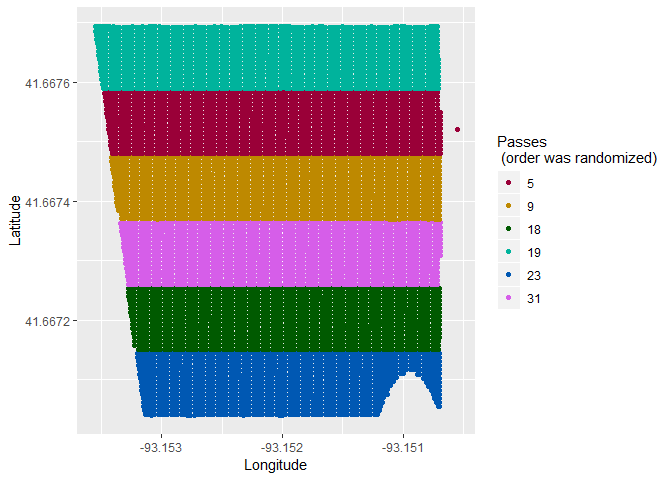
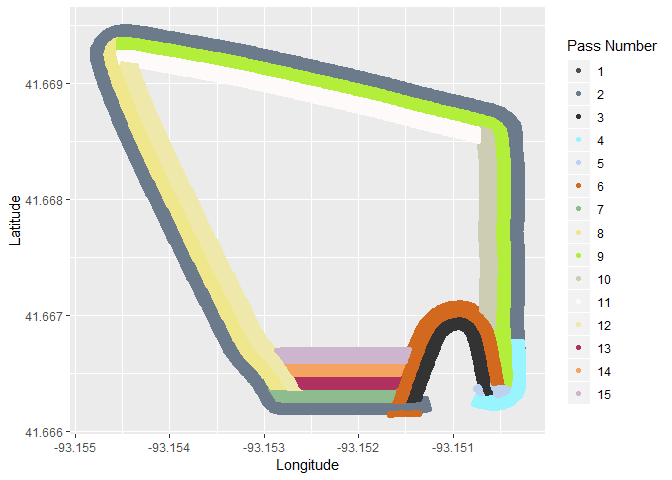
Simplifying code

diff --git a/Process_script.md b/Process_script.md
@@ -1,20 +1,16 @@
 Ag Machine Pass Numbering
 ================
 Eric Coronel
-August 6, 2018
+August 9, 2018
 
-# Purpose of this script
+Purpose of this script
+======================
 
-Data collected by agricultural equipment is not user friendly,
-especially when within-field data manipulation is needed. It is simple
-to calculate average yield or fuel usage per field. The challenge is
-obtaining attributes from individual field passes inside the field when
-there are no identifiers to perform subsettings or groupings.  
-The code included here uses time difference in seconds between
-observations to separate machinery passes. The threshold for separating
-passes can be modified.
+Data collected by agricultural equipment is not user friendly, particularly when within-field data manipulation is needed. It is simple to calculate average yield or fuel usage per field. The challenge is obtaining attributes from individual field passes when there are no identifiers to perform subsettings or groupings.
+The code included here uses time difference in seconds between observations to separate machinery passes. The threshold for separating passes can be modified.
 
-## Packages needed
+Packages needed
+---------------
 
 ``` r
 library(dplyr)
@@ -22,13 +18,10 @@ library(ggplot2)
 library(rgdal)
 ```
 
-## Importing the seeding shapefile
+Importing the seeding shapefile
+-------------------------------
 
-A publicly available seeding shapefile can be found at a [Deere
-website](https://developer.deere.com/#!documentation&doc=.%2Fmyjohndeere%2FfieldOperations.htm&anchor=).
-The sample Seeding shapefile can be downloaded from the following
-[link](https://developer.deere.com/content/documentation/merriweather_seeding.zip).
-The zip file needs to be decompressed into a temp file before importing.
+A publicly available seeding shapefile can be found at a [Deere website](https://developer.deere.com/#!documentation&doc=.%2Fmyjohndeere%2FfieldOperations.htm&anchor=). The sample seeding shapefile can be downloaded from the following [link](https://developer.deere.com/content/documentation/merriweather_seeding.zip). The zip file needs to be decompressed into a temp file before importing.
 
 ``` r
 # Download zipfile into tempfile
@@ -38,19 +31,15 @@ zipfile <- download.file(url, tmpfn)
 files <- unzip(tmpfn, exdir = tempdir())
 ```
 
-Once decompressed it can be imported using `rgdal::readORG` with
-`pointDropZ = TRUE` argument because the shapefile has an empty Z
-column; likely an error during the creation of the file. I created a
-working copy to avoid manipulating the original file since it takes
-about 30 seconds to import the original shapefile.
+Once the file is decompressed, it can be imported using `rgdal::readORG`. The `pointDropZ = TRUE` argument is needed because the shapefile has an empty Z column; likely an error during the creation of the file. I created a working copy to avoid manipulating the original file since it takes about 30 seconds to import the original shapefile.
 
 ``` r
 # Importing the shapefile
-seeding_shapefile <- readOGR(dsn = files[5], layer = "Merriweather Farms-JT-01-Corn", pointDropZ = TRUE)
+seeding_shapefile <- readOGR(dsn = files[4], layer = "Merriweather Farms-JT-01-Corn", pointDropZ = TRUE)
 ```
 
     ## OGR data source with driver: ESRI Shapefile 
-    ## Source: "/tmp/Rtmpf5M2Qf/doc/Merriweather Farms-JT-01-Corn.shx", layer: "Merriweather Farms-JT-01-Corn"
+    ## Source: "C:\Users\EricCoronel\AppData\Local\Temp\Rtmp8mrVJ1\doc\Merriweather Farms-JT-01-Corn.shp", layer: "Merriweather Farms-JT-01-Corn"
     ## with 63761 features
     ## It has 10 fields
 
@@ -59,103 +48,77 @@ seeding_shapefile <- readOGR(dsn = files[5], layer = "Merriweather Farms-JT-01-C
 work_copy <- seeding_shapefile
 ```
 
-## First processing
+First processing
+----------------
 
 This chunk does the following:
 
-  - Creates a datetime variable.
-  - Calculates time difference in seconds among consecutive records.
-  - Creates an indicator variable that assigns 0 if time difference is
-    between 0 to 6 seconds, and 1 to all others.
-  - Calculates the cumulative sum of the indicator variable.
-
-Since data are arranged in ascending time order, the cumulative sum of
-the indicator variable gives us the total number of passes.
+-   Creates a datetime variable.
+-   Calculates time difference in seconds among consecutive records.
+-   Creates an indicator variable that assigns 0 if time difference is between 0 to 6 seconds, and 1 to all others.
+-   Calculates the cumulative sum of the indicator variable. Since data are arranged in ascending time order, the cumulative sum of the indicator variable gives us the total number of passes.
+-   Creates `pass_factor`, which is `pass_num` formatted as a factor for later visualization.
 
 ``` r
 work_copy@data <- work_copy@data %>%
   mutate(datetime = as.POSIXct(Time, format = "%m/%d/%Y %H:%M:%S"),
          diff1 = c(NA, diff(datetime)),
          indicator = ifelse(diff1 %in% c(0:6), 0, 1),
-         pass_num = cumsum(indicator))
+         pass_num = cumsum(indicator),
+         pass_factor = as.factor(pass_num))
 ```
 
-## Calculating observations per pass
+Calculating observations per pass
+---------------------------------
 
-Another useful attribute for grouping or subsetting is knowing the
-number of observations per pass. This code also creates a random order
-of pass numbers (`pass_scramble`) which is useful for later
-visualization.
-
-We first create a new file, `obs_pass`, with the variables mentioned
-above.
+Another useful attribute for grouping or subsetting is knowing the number of observations per pass.
 
 ``` r
-obs_pass <- work_copy@data %>%
+work_copy@data <- work_copy@data %>%
   group_by(pass_num) %>%
-  summarize(obs_per_pass = n()) %>%
-  mutate(pass_scramble = factor(sample(pass_num)))
+  mutate(obs_per_pass = n())
 ```
 
-## Joining new data to seeding shapefile
+Dropping some variables and adding coordinates
+----------------------------------------------
 
 This chunk:
 
-  - Joins the `obs_pass` file to the seeding shapefile.
-  - Removes `datetime`, `diff1`, and `indicator` variables.
-  - Makes actual pass numbers variable, `pass_num`, a factor.
-
-<!-- end list -->
+-   Removes `datetime`, `diff1`, and `indicator` variables.
+-   Adds the coordinate variables `coords.x1` and `coords.x2` as part of the attribute table.
 
 ``` r
 work_copy@data <- work_copy@data %>%
-  left_join(obs_pass, by = "pass_num") %>%
-  select(-datetime, -diff1, -indicator) %>%
-  mutate(pass_factor = factor(pass_num))
+  select(-datetime, -diff1, -indicator) %>% 
+  bind_cols(work_copy %>%
+              coordinates() %>%
+              data.frame)
 ```
 
-## Giving the coordinates for each point
-
-It is often useful to have the coordinates as part of the attribute
-table.
-
-``` r
-# Creating file with coordinates
-xycoords <- work_copy %>%
-  coordinates() %>%
-  data.frame
-
-# Joining the coordinates with the shapefile
-work_copy@data <- work_copy@data %>%
-  bind_cols(xycoords)
-```
-
-## Ploting final version
-
-The variable `pass_scramble` is used for coloring to help with
-visualization.
+Ploting the final version
+-------------------------
 
 ``` r
 # Using a subset for faster display
-ggplot(filter(work_copy@data, pass_num %in% 20:25), 
-       aes(x = coords.x1, y = coords.x2, color = pass_scramble)) +
+filter(work_copy@data, pass_num %in% 1:15) %>% 
+  ggplot(., aes(x = coords.x1, y = coords.x2, color = pass_factor)) +
   geom_point() +
-  scale_color_hue(h = c(0, 360), c = 100, l = c(30, 60)) +
+  scale_color_manual(values = sample(colors(nlevels(work_copy$pass_factor)))) +
   labs(x = "Longitude",
        y = "Latitude",
-       color = "Passes \n (order was randomized)")
+       color = "Pass Number")
 ```
 
-![](Process_script_files/figure-gfm/plotting-1.png)<!-- -->
+![](Process_script_files/figure-markdown_github/plotting-1.png)
 
 ``` r
 # Plotting the entire shapefile
-ggplot(work_copy@data, aes(x = coords.x1, y = coords.x2, color = pass_scramble)) +
+ggplot(work_copy@data, aes(x = coords.x1, y = coords.x2, color = pass_factor)) +
   geom_point() +
-  scale_color_hue(h = c(0, 360), c = 100, l = c(30, 60)) +
+  scale_color_manual(values = sample(colors(nlevels(work_copy$pass_factor)))) +
   labs(x = "Longitude",
        y = "Latitude",
-       color = "Passes \n (order was randomized)")
+       color = "Passes Number")
 ```
 
-![](Process_script_files/figure-gfm/plotting-2.png)<!-- -->
+![](Process_script_files/figure-markdown_github/plotting-2.png)
